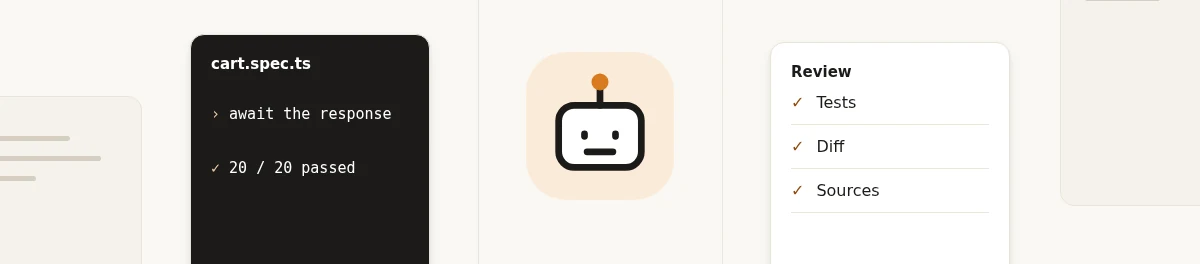
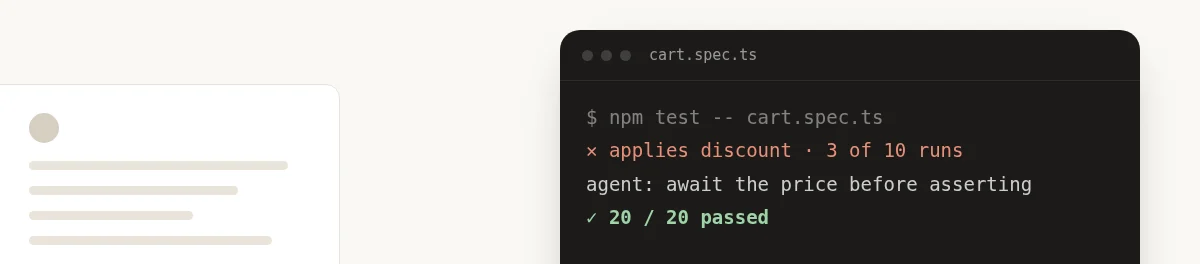
A cover that tells the flaky-test story (#13)

diff --git a/assets/visuals/cover.html b/assets/visuals/cover.html
@@ -1,1 +1,16 @@
-<!doctype html><html lang="en"><head><meta charset="utf-8"><title>a/clanker cover</title><link rel="stylesheet" href="tokens.css"><style>*{box-sizing:border-box}body{margin:0;width:1200px;height:264px;overflow:hidden;font-family:var(--font-sans);background:var(--color-bg);color:var(--color-text)}.cover{position:relative;width:1200px;height:264px;overflow:hidden}.rule{position:absolute;top:0;height:264px;width:1px;background:var(--color-border)}.r1{left:478px}.r2{left:722px}.badge-mark{position:absolute;left:544px;top:76px;width:112px;height:112px}.badge-mark svg{display:block;width:100%;height:100%}.card{position:absolute;width:240px;border:1px solid var(--color-border);border-radius:var(--radius-lg);background:var(--color-surface);overflow:hidden;box-shadow:var(--shadow-md)}.left{left:190px;top:34px;height:300px}.right{left:770px;top:42px;padding:20px;height:300px}.label{display:flex;align-items:center;justify-content:space-between;gap:12px;font-size:15px;font-weight:600}.title{font-weight:650;font-size:23px;letter-spacing:var(--tracking-tight);margin:22px 0}.pill{font-size:11px;padding:3px 8px;border-radius:99px;color:var(--color-accent-text);background:var(--color-accent-subtle)}.buttons{display:flex;gap:8px;margin-top:20px}.btn{font-size:13px;font-weight:650;padding:9px 16px;border-radius:99px;white-space:nowrap}.primary{color:var(--color-on-ink);background:var(--color-ink)}.secondary{border:1px solid var(--color-border-strong)}.filler{position:absolute;top:96px;left:-64px;width:206px;height:290px;border:1px solid var(--color-border);border-radius:var(--radius-lg);background:var(--color-surface-sunken);padding:24px}.filler.end{left:1060px;top:-84px}.line{height:5px;background:var(--color-border-strong);border-radius:3px;margin:15px 0;width:70%}.line:nth-child(2){width:90%}.line:nth-child(3){width:48%}.left{background:var(--color-ink);color:var(--color-on-ink);padding:20px}.code{font-family:var(--font-mono);font-size:15px;line-height:1.8;margin-top:28px}.code span{color:var(--color-accent-border)}.badge-mark{left:526px;top:52px;width:148px;height:148px;background:var(--color-accent-subtle);border-radius:40px;padding:12px}.check{display:flex;align-items:center;gap:12px;border-bottom:1px solid var(--color-border);padding:12px 0;font-size:16px}.check span{color:var(--color-accent-text)}</style></head><body><main class="cover"><div class="rule r1"></div><div class="rule r2"></div><div class="filler"><div class="line"></div><div class="line"></div><div class="line"></div></div><div class="filler end"><div class="line"></div><div class="line"></div><div class="line"></div></div><div class="card left"><div class="label">cart.spec.ts</div><div class="code"><span>›</span> await the response<br><br><span>✓</span> 20 / 20 passed</div></div><div class="badge-mark"><svg viewBox="0 0 24 24" aria-label="Clanker" fill="none" stroke="var(--color-text)" stroke-width="1.3" stroke-linecap="round" stroke-linejoin="round"><rect x="4" y="8" width="16" height="12" rx="3" fill="var(--color-surface)"/><path d="M12 8V4.5"/><circle cx="12" cy="3.5" r="1" fill="var(--color-accent-fill)" stroke="var(--color-accent-fill)"/><path d="M9 13.5v.5M15 13.5v.5M9.5 17h5"/></svg></div><div class="card right"><div class="label">Review</div><div class="check"><span>✓</span> Tests</div><div class="check"><span>✓</span> Diff</div><div class="check"><span>✓</span> Sources</div></div></main></body></html>
+<!doctype html><html lang="en"><head><meta charset="utf-8"><title>a/clanker cover</title><link rel="stylesheet" href="tokens.css"><style>
+*{box-sizing:border-box}body{margin:0;width:1200px;height:264px;overflow:hidden;font-family:var(--font-sans);background:var(--color-bg);color:var(--color-text);-webkit-font-smoothing:antialiased}
+.ghost{position:absolute;left:-60px;top:84px;width:400px;height:260px;border:1px solid var(--color-border);border-radius:var(--radius-lg);background:var(--color-surface);padding:28px 28px 0 88px}
+.ghost b{display:block;width:30px;height:30px;border-radius:50%;background:var(--color-border-strong);margin:0 0 18px}
+.ghost i{display:block;height:9px;border-radius:5px;background:var(--color-border);margin:0 0 16px}
+.ghost i:nth-of-type(1){width:92%}.ghost i:nth-of-type(2){width:74%}.ghost i:nth-of-type(3){width:58%}.ghost i:nth-of-type(4){width:86%}
+.term{position:absolute;left:560px;top:30px;width:580px;height:300px;border-radius:20px;background:#1c1b19;box-shadow:0 18px 50px -24px rgb(28 27 25 / .45);overflow:hidden;font-family:var(--font-mono, ui-monospace, SFMono-Regular, Menlo, monospace)}
+.bar{display:flex;align-items:center;gap:8px;padding:16px 22px;border-bottom:1px solid rgb(255 255 255 / .08)}
+.bar span{width:11px;height:11px;border-radius:50%;background:rgb(255 255 255 / .16)}
+.bar em{margin-left:10px;font-style:normal;font-size:15px;color:rgb(255 255 255 / .55)}
+.body{padding:20px 26px;font-size:19px;line-height:1.75}
+.agent{color:rgb(255 255 255 / .78)}.dim{color:rgb(255 255 255 / .45)}.fail{color:#e8907a}.ok{color:#9fd3a8;font-weight:700}
+</style></head><body>
+<div class="ghost"><b></b><i></i><i></i><i></i><i></i></div>
+<div class="term"><div class="bar"><span></span><span></span><span></span><em>cart.spec.ts</em></div><div class="body"><div class="dim">$ npm test -- cart.spec.ts</div><div class="fail">✕ applies discount · 3 of 10 runs</div><div class="agent">agent: await the price before asserting</div><div class="ok">✓ 20 / 20 passed</div></div></div>
+</body></html>
